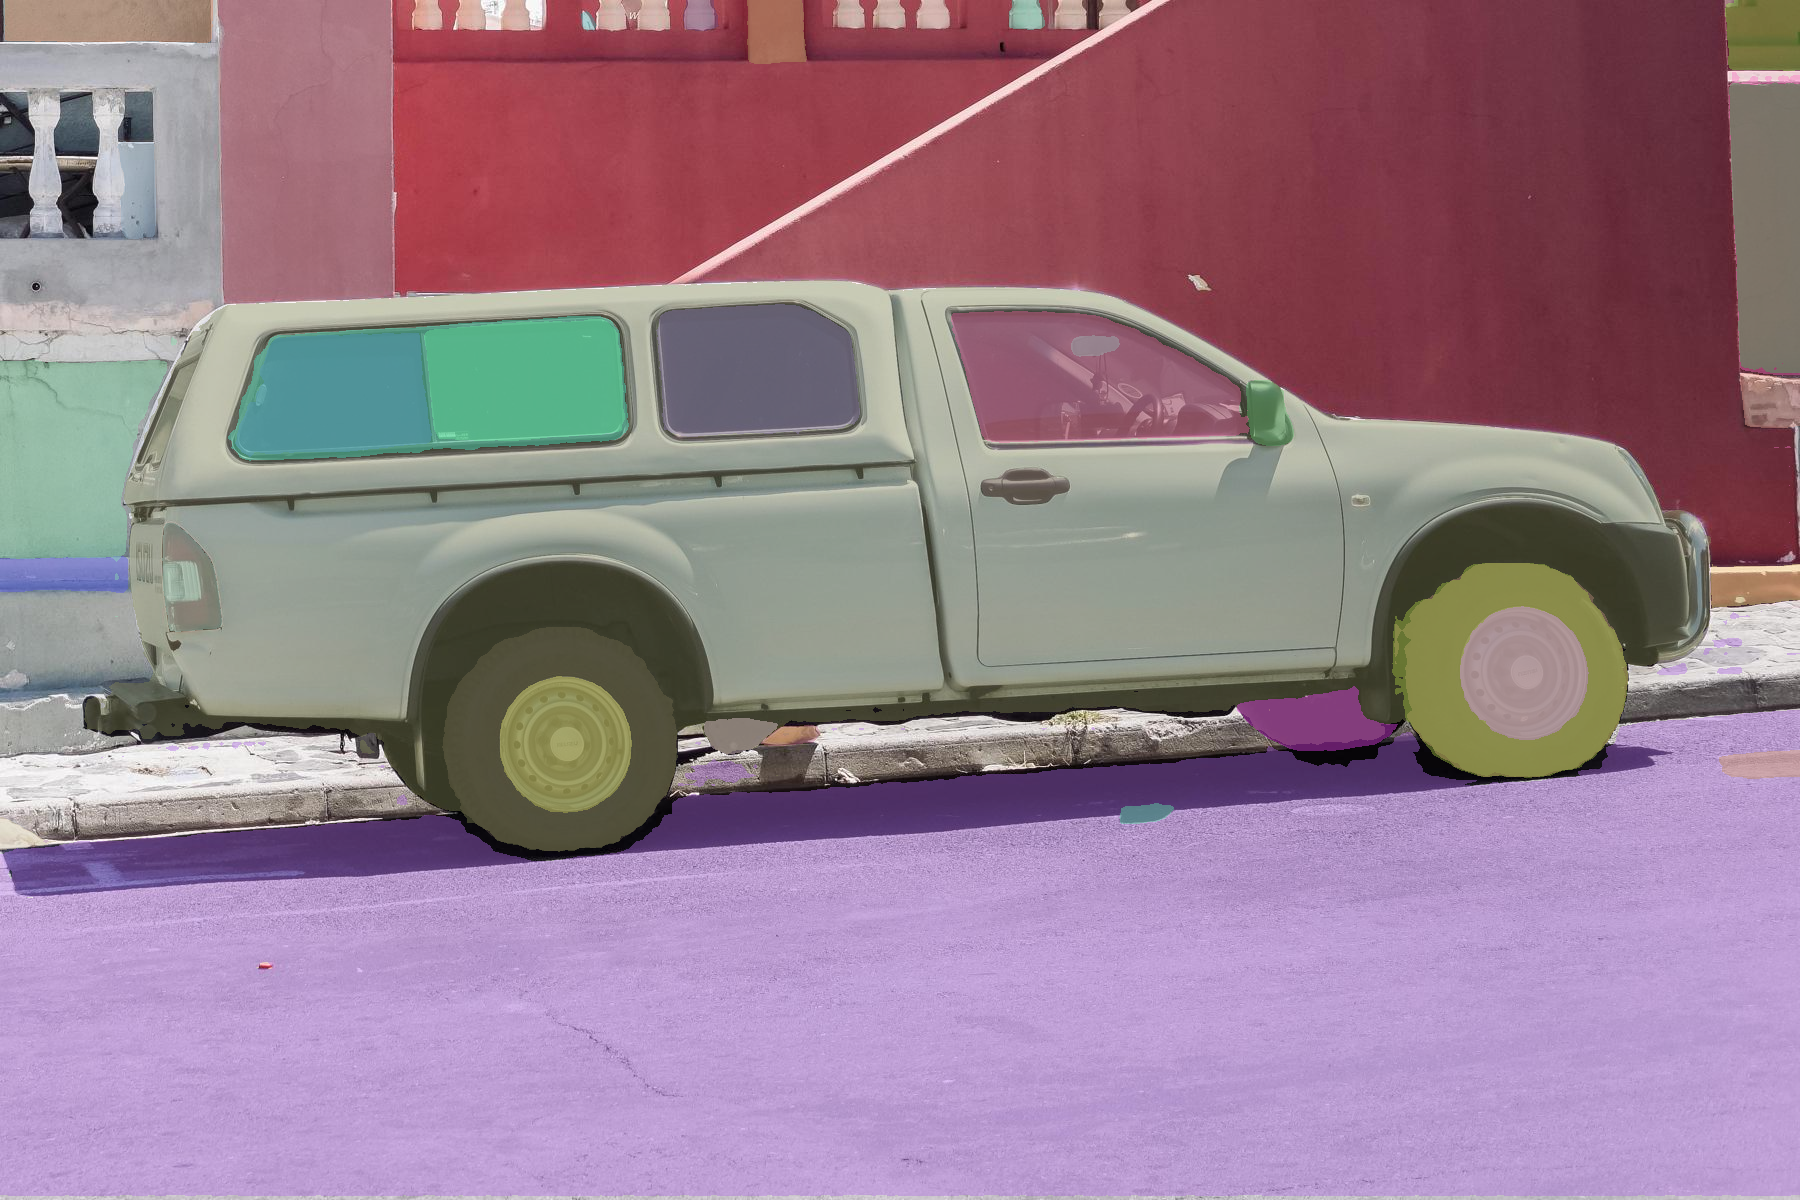
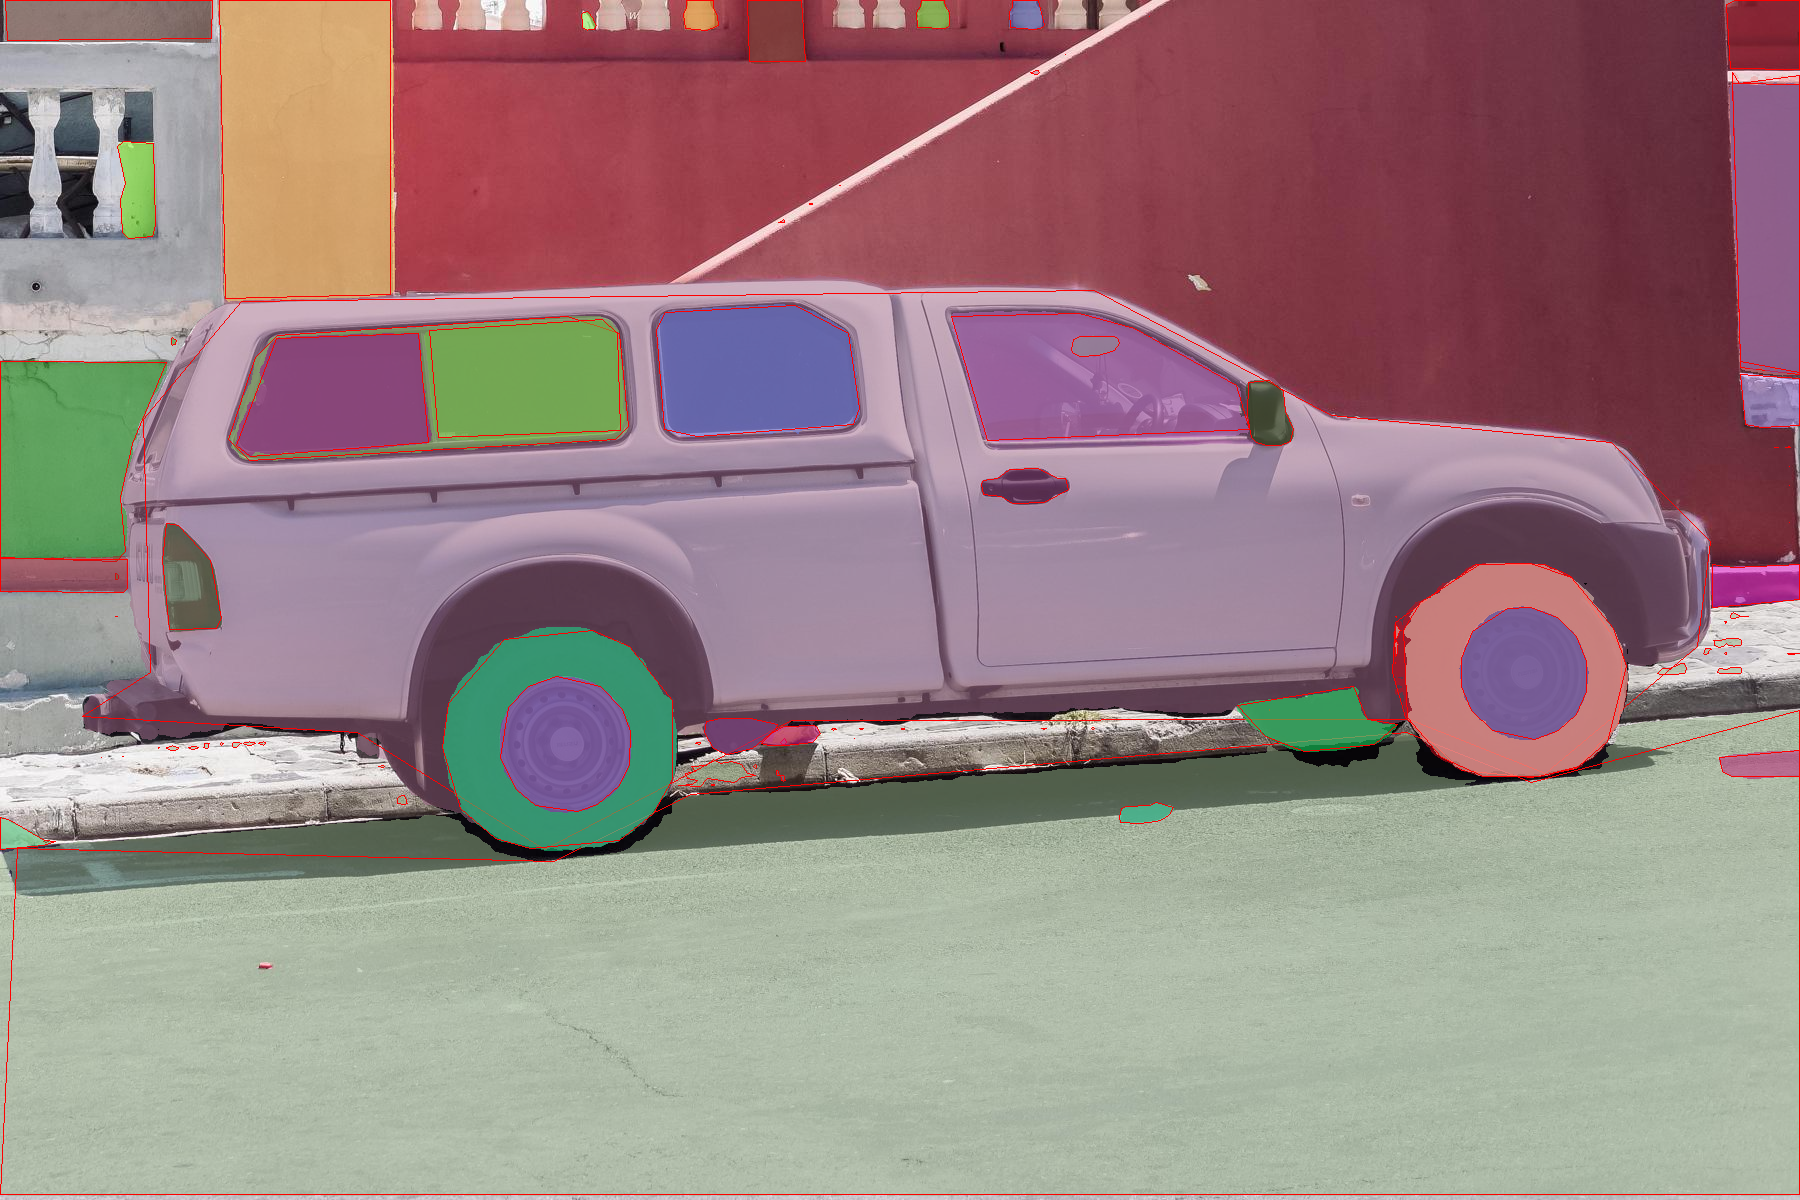
Match official SAM2 visualization style for auto mask generation
- Change mask alpha from 0.4 to 0.5 (matching official show_anns)
- Sort masks by area descending (largest first, smaller on top)
- Draw contours around each mask with cv2.drawContours
- Use np.random.random(3) for color generation

https://claude.ai/code/session_01MAuv6aMbqY5yU5HF3DvWMD

diff --git a/image_segmentation/segment-anything-2/segment-anything-2.py b/image_segmentation/segment-anything-2/segment-anything-2.py
@@ -125,7 +125,7 @@ def show_mask(mask, img, color = np.array([255, 144, 30]), obj_id=None):
     mask = mask.reshape(h, w, 1)
 
     mask_image = mask * color
-    img = (img * ~mask) + (img * mask) * 0.6 + mask_image * 0.4
+    img = (img * ~mask) + (img * mask) * 0.5 + mask_image * 0.5
 
     return img
 
@@ -294,12 +294,22 @@ def recognize_from_image_auto(image_encoder, prompt_encoder, mask_decoder):
         logger.info(f'\tprocessing time {end - start} ms')
         logger.info(f'\tdetected {len(binary_masks)} masks')
 
-        # Visualize with random colors
+        # Sort masks by area (largest first, so smaller masks render on top)
+        areas = np.sum(binary_masks, axis=(1, 2))
+        sorted_idx = np.argsort(-areas)
+        binary_masks = binary_masks[sorted_idx]
+
+        # Visualize with random colors and contours (matching official SAM2 style)
         image = image.astype(np.float64)
         np.random.seed(0)
         for mask in binary_masks:
-            color = np.random.randint(60, 255, size=3)
+            color = (np.random.random(3) * 255).astype(np.float64)
             image = show_mask(mask, image, color=color)
+            # Draw contour
+            mask_uint8 = mask.astype(np.uint8)
+            contours, _ = cv2.findContours(mask_uint8, cv2.RETR_EXTERNAL, cv2.CHAIN_APPROX_NONE)
+            smoothed = [cv2.approxPolyDP(c, 0.01 * cv2.arcLength(c, True), True) for c in contours]
+            cv2.drawContours(image, smoothed, -1, (0, 0, 255), thickness=1, lineType=cv2.LINE_AA)
         image = np.clip(image, 0, 255).astype(np.uint8)
 
         savepath = get_savepath(args.savepath, image_path, ext='.png')
